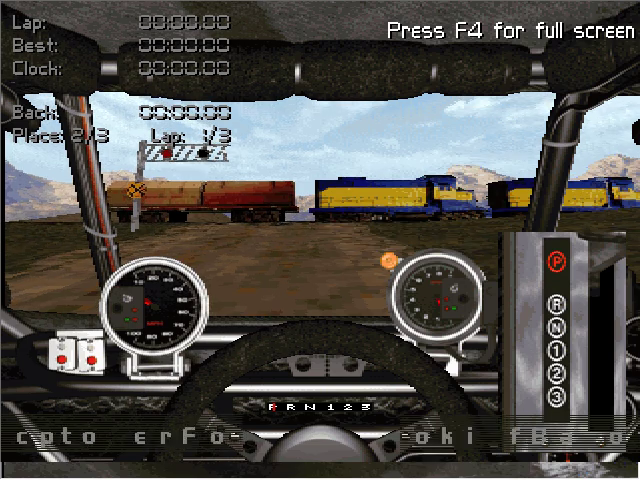
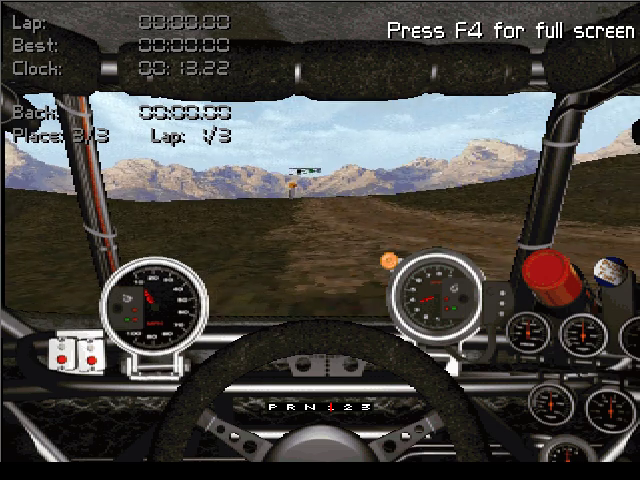
Drive the race: scripted keys go to the focus window
The race is a view inside an MDI frame and reads its keys from window
messages, so --key posted to the frame did nothing. Keys now go to the game
thread's focus window, as real keys do, and GetKeyState (the game does not
import GetAsyncKeyState) sees the keys --key holds. A scripted run holds UP
and the truck pulls away through the gears.

Needs pcrecomp #81 (https://github.com/sp00nznet/pcrecomp/pull/81).

diff --git a/src/runtime/host.c b/src/runtime/host.c
@@ -73,10 +73,10 @@ static void shim_MessageBoxA(void) {
 /* ------------------------------------------------------------ input */
 
 /* --key NAME@MS[+HOLD] and --click X,Y@MS: scripted input, in milliseconds
- * from entry. The game reads keys through GetAsyncKeyState and the mouse
- * through window messages, so a scripted key is held for GetAsyncKeyState
- * and posted; a click is posted as a button down and up at a 640x480
- * position. Headless, the real keyboard is not read at all. */
+ * from entry. The game reads keys through window messages and GetKeyState
+ * (DirectInput is created but no device on it), so a scripted key is held
+ * for GetKeyState and posted to the focus window; a click is posted as a
+ * button down and up at a 640x480 position. Headless, the real keyboard is not read at all. */
 #define MAX_INPUT 64
 static struct { int vk, x, y; DWORD at, hold; } g_in[MAX_INPUT];
 static int g_nin;
@@ -142,8 +142,12 @@ static DWORD WINAPI input_thread(LPVOID p) {
         PostMessageA(w, WM_LBUTTONUP, 0, xy);
         return 0;
     }
-    w = pop;                                /* IsDialogMessage turns ENTER into the default button */
-    fprintf(stderr, "[input] key 0x%02X down at %lu ms\n", vk, GetTickCount() - t0);
+    /* Keys go where real ones would: the game thread's focus window (the
+     * race's view, not the MDI frame), else the popup. In a dialog,
+     * IsDialogMessage turns ENTER into the default button. */
+    GUITHREADINFO gi = { sizeof gi };
+    w = GetGUIThreadInfo(GetWindowThreadProcessId(pop, NULL), &gi) && gi.hwndFocus ? gi.hwndFocus : pop;
+    fprintf(stderr, "[input] key 0x%02X down at %lu ms -> hwnd %p\n", vk, GetTickCount() - t0, (void*)w);
     InterlockedIncrement(&g_held[vk]);
     PostMessageA(w, WM_KEYDOWN, vk, 1);
     Sleep(g_in[i].hold);
@@ -151,9 +155,9 @@ static DWORD WINAPI input_thread(LPVOID p) {
     PostMessageA(w, WM_KEYUP, vk, 0xC0000001u);
     return 0;
 }
-static void shim_GetAsyncKeyState(void) {
+static void shim_GetKeyState(void) {
     int vk = ARG(0) & 0xFF;
-    SHORT s = g_held[vk] ? (SHORT)0x8001 : (!g_headless && ddh_focused()) ? GetAsyncKeyState(vk) : 0;
+    SHORT s = g_held[vk] ? (SHORT)0x8000 : g_headless ? 0 : GetKeyState(vk);
     RET((uint16_t)s, 1);
 }
 
@@ -220,7 +224,7 @@ static native32_shim_t g_shims[] = {
     { "GetModuleHandleA", shim_GetModuleHandleA },
     { "GetModuleFileNameA", shim_GetModuleFileNameA },
     { "GetCommandLineA", shim_GetCommandLineA },
-    { "GetAsyncKeyState", shim_GetAsyncKeyState },
+    { "GetKeyState", shim_GetKeyState },
     { "ExitProcess", shim_ExitProcess },
     DDH_SHIMS,
     { "MessageBoxA", shim_MessageBoxA },          /* headless only: the last entry */

diff --git a/README.md b/README.md
@@ -9,13 +9,14 @@ Part of the pcrecomp collection and its shared house style; siblings from the
 same engine house are [fury3](https://github.com/sp00nznet/fury3) and
 [hellbender](https://github.com/sp00nznet/hellbender).
 
-## Status: alpha — a race starts
+## Status: alpha — a race drives
 
 `Monster.exe` is lifted whole (22,279 functions, 0 lift errors, 2.46M lines of
 C) and runs on pcrecomp's `native32` host. It plays both intro videos, goes
 through the title menu and Driver Check-in, and starts a race on the
-software renderer, windowed: the track, the cockpit and the race clock run.
-Driving it has not been tried yet.
+software renderer, windowed, and the truck drives: throttle and steering by
+scripted keys, through the gears and down the track. A whole race has not been
+finished yet.
 
 | Milestone | State |
 |---|---|
@@ -24,7 +25,7 @@ Driving it has not been tried yet.
 | Smacker intro videos (MS logo, TRI logo) | done |
 | Title menu (MFC + GDI) | done |
 | Driver Check-in (3D truck preview), GO, "Before You Begin" | done |
-| A race on the software renderer (windowed, GDI) | starts; not driven yet |
+| A race on the software renderer (windowed, GDI) | drives; not finished yet |
 | Text strip along the bottom of the race screen | garbled |
 | Hardware renderers (`TRID3D.DLL`, Glide) | not started |
 
@@ -39,7 +40,7 @@ From a headless recording (`--headless --record`):
 | Intro | Title menu |
 |---|---|
 | ![intro](docs/img/intro.png) | ![title](docs/img/title.png) |
-| **Driver Check-in** | **Race (Bear Foot, cockpit view)** |
+| **Driver Check-in** | **Racing (cockpit view, third gear)** |
 | ![check-in](docs/img/checkin.png) | ![race](docs/img/race.png) |
 
 ## Getting Started
@@ -72,9 +73,10 @@ tools, CMake 3.20+, Ninja, and `ffmpeg` on PATH for `--record`.
    The lift ends with `lifted 22279   errors 0`.
 4. Build: `build.cmd` (MSVC x86 + Ninja) gives `build\mtm.exe`.
 5. Run it headless with a recording. This clicks Driver Check-in, then GO,
-   then ENTER for "Before You Begin", and the race starts at about 80 s:
+   then ENTER for "Before You Begin"; the race starts at about 80 s, and UP
+   holds the throttle from 85 s:
    ```
-   build\mtm.exe --run --headless --watchdog 120 --record out.mp4 --click 560,433@60000 --click 570,430@68000 --key ENTER@78000
+   build\mtm.exe --run --headless --watchdog 125 --record out.mp4 --click 560,433@60000 --click 570,430@68000 --key ENTER@78000 --key UP@85000+38000
    ```
 
 Use `py` rather than `python`: the Microsoft Store alias answers `python` and

diff --git a/docs/architecture.md b/docs/architecture.md
@@ -74,5 +74,11 @@ What the host changes about the game's world (`src/runtime/host.c`, `ddraw.c`):
   dialog ("Before You Begin"), made with `CreateDialogIndirectParamA`, which
   the `CreateWindowExA` shim never sees. A CBT hook on the game thread cloaks
   each one as it is created. The recorder draws the active popup over the
-  main window, and `--key`/`--click` go to it.
+  main window, and `--click` goes to it.
+- **Keys go to the focus window.** The race is a view inside an MDI frame,
+  and reads its keys from window messages: posted to the frame they did
+  nothing. `--key` posts to the game thread's focus window
+  (`GetGUIThreadInfo`), which is the race's view, or a dialog's control, as
+  a real key would be. `GetKeyState` sees the keys `--key` holds.
+  DirectInput is created, but no device is made on it.
 - `smackw32.dll` and DirectSound run natively through the bridge.

diff --git a/CHANGELOG.md b/CHANGELOG.md
@@ -17,6 +17,9 @@ Format: [Keep a Changelog](https://keepachangelog.com/en/1.1.0/); versions follo
   and `--key`/`--click` reach a modal dialog and the MFC child controls under
   the point. With these, a scripted run reaches a race on the software
   renderer.
+- The race can be driven with `--key`: keys go to the game thread's focus
+  window (the race's view inside the MDI frame), as real keys do, and
+  `GetKeyState` sees the keys `--key` holds.
 
 ### Fixed
 - The game's `ChangeDisplaySettingsA`, fetched with `GetProcAddress`, no

diff --git a/ROADMAP.md b/ROADMAP.md
@@ -1,8 +1,7 @@
 # Roadmap
 
 ## Next
-- Drive a race: steering and throttle through `--key`, and the game's
-  DirectInput keyboard.
+- Finish a race on a script: a lap's worth of `--key` steering.
 - The garbled text strip along the bottom of the race screen.
 - The dialog is drawn over the main window but not at its real position.
 - F4 full screen: the host's DirectDraw, as for the videos.
